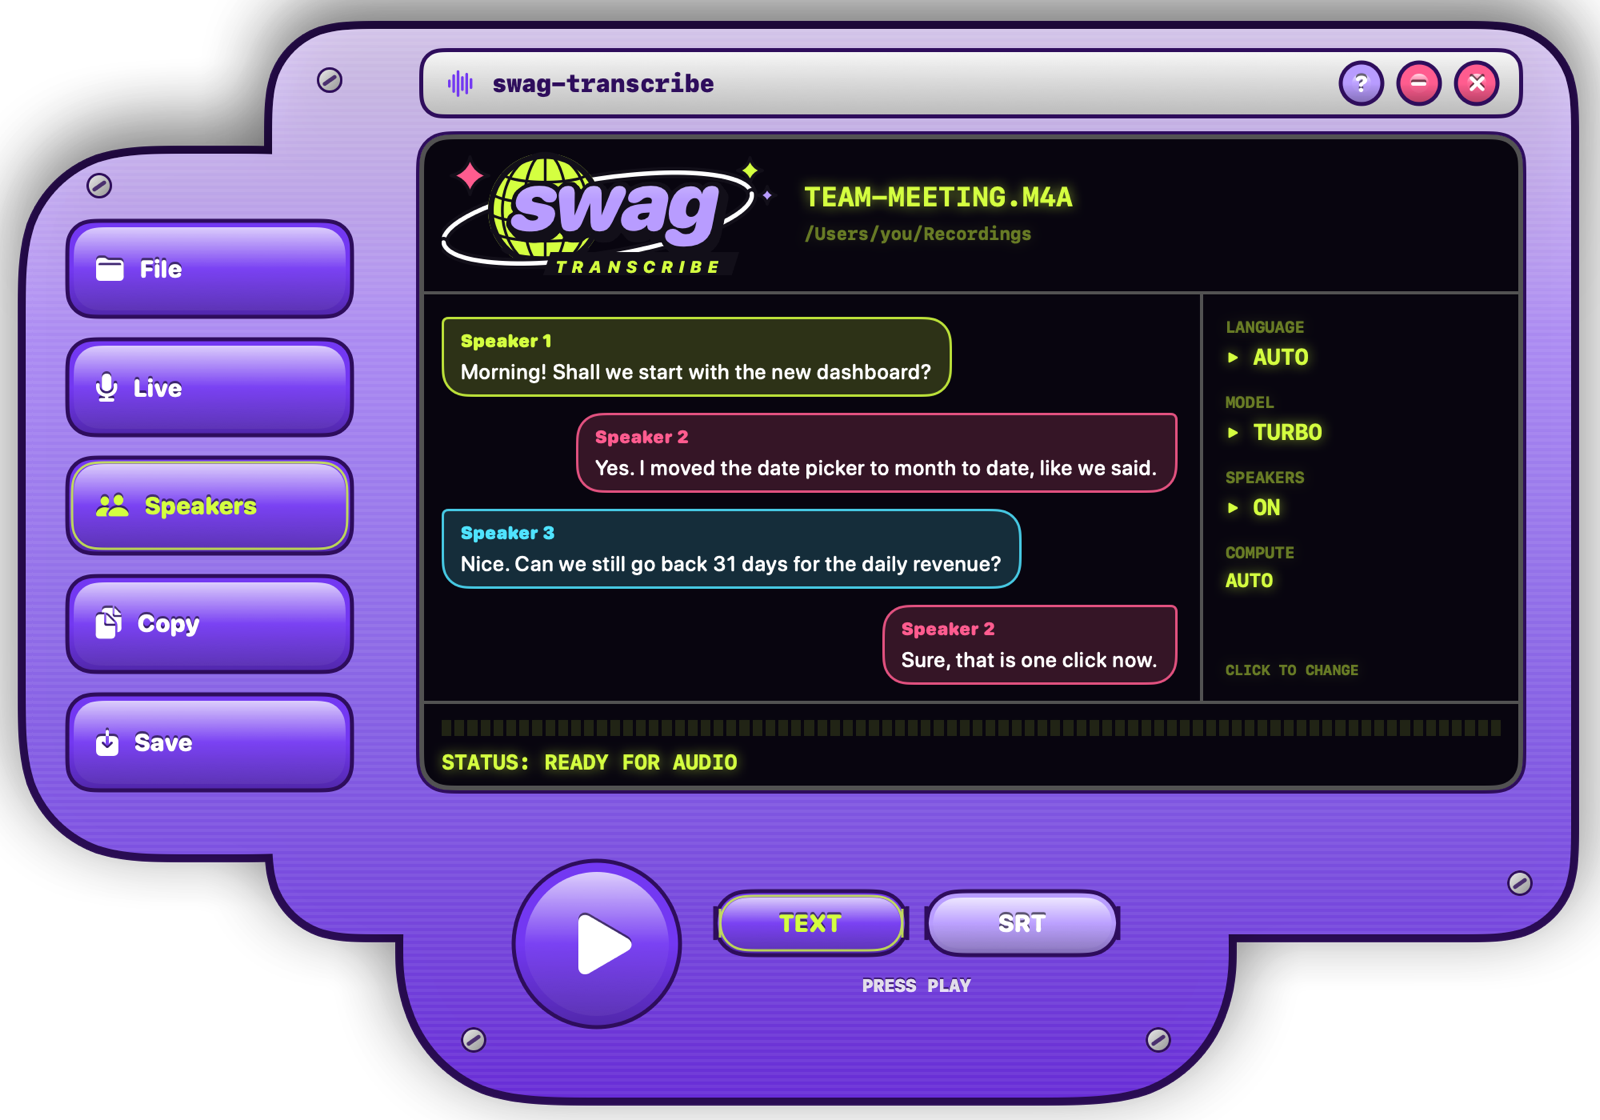
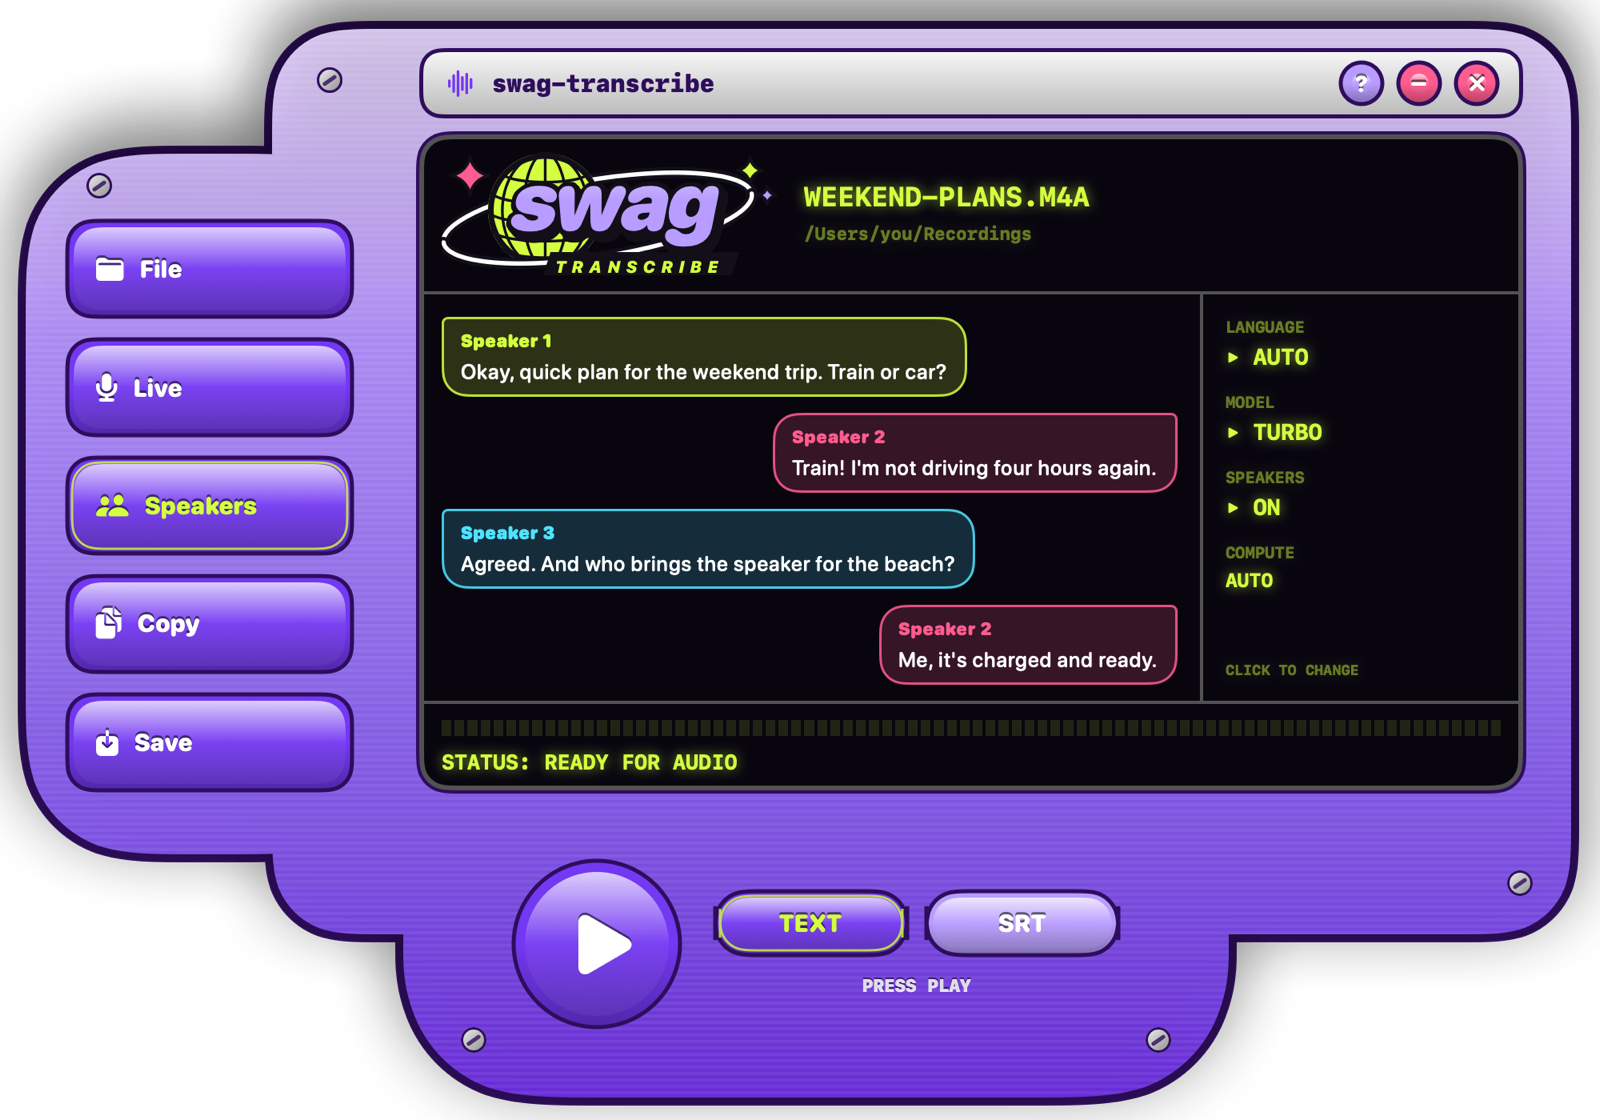
less boring now

Changed region(s): [[0.2812, 0.2812, 0.7188, 0.5938], [0.5, 0.1562, 0.6875, 0.1875]]

diff --git a/Sources/SwagTranscribe/SwagTranscribeApp.swift b/Sources/SwagTranscribe/SwagTranscribeApp.swift
@@ -49,15 +49,15 @@ enum LaunchMode {
         case "player":
             let sample = Transcriber()
             sample.text = localized(
-                "Speaker 1: Morning! Shall we start with the new dashboard?\n\n"
-                    + "Speaker 2: Yes. I moved the date picker to month to date, like we said.\n\n"
-                    + "Speaker 3: Nice. Can we still go back 31 days for the daily revenue?\n\n"
-                    + "Speaker 2: Sure, that is one click now.\n\nSpeaker 1: Perfect, then let's ship it on Friday.",
-                "Spreker 1: Goedemorgen! Zullen we met het nieuwe dashboard beginnen?\n\n"
-                    + "Spreker 2: Ja. Ik heb de datumkiezer op maand tot nu gezet, zoals afgesproken.\n\n"
-                    + "Spreker 3: Mooi. Kunnen we voor de dagomzet nog steeds 31 dagen terug?\n\n"
-                    + "Spreker 2: Zeker, dat is nu één klik.\n\nSpreker 1: Top, dan zetten we het vrijdag live.")
-            let file = URL(fileURLWithPath: "/Users/you/Recordings/team-meeting.m4a")
+                "Speaker 1: Okay, quick plan for the weekend trip. Train or car?\n\n"
+                    + "Speaker 2: Train! I'm not driving four hours again.\n\n"
+                    + "Speaker 3: Agreed. And who brings the speaker for the beach?\n\n"
+                    + "Speaker 2: Me, it's charged and ready.\n\nSpeaker 1: Perfect, I'll book the tickets tonight.",
+                "Spreker 1: Oké, even een plan voor het weekendje weg. Trein of auto?\n\n"
+                    + "Spreker 2: Trein! Ik ga niet nog een keer vier uur rijden.\n\n"
+                    + "Spreker 3: Eens. En wie neemt de speaker mee naar het strand?\n\n"
+                    + "Spreker 2: Ik, hij is al opgeladen.\n\nSpreker 1: Top, dan boek ik vanavond de kaartjes.")
+            let file = URL(fileURLWithPath: "/Users/you/Recordings/weekend-plans.m4a")
             image = snapshot(ContentView(file: file, speakers: true, transcriber: sample), size: Skin.size)
         default: image = snapshot(ContentView(), size: Skin.size)
         }
